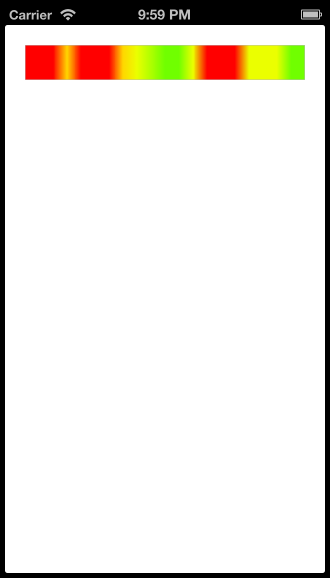
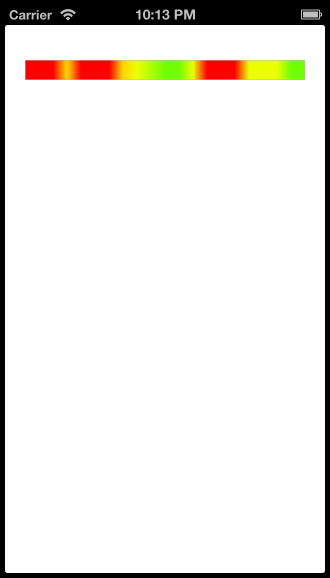
Update readme and demo image

Changed region(s): [[0.0606, 0.0623, 0.9394, 0.1246], [0.4242, 0.0, 0.6061, 0.0311]]

diff --git a/README.md b/README.md
@@ -1,3 +1,3 @@
-A simple UIView subclass that takes an array of values 0-100 and displays a horizontal linear gradient displaying those values. Useful for mapping inaccurate values over time.
+A simple UIView subclass that takes an array of values 0-100 and displays a horizontal linear gradient displaying those values. Useful for mapping values over time in a small space. It's less accurate than a [Sparkline](http://en.wikipedia.org/wiki/Sparkline), but is more obvious when mapping absolute values (e.g. a student's score in a class over the semester -- A is Green, F is Red).
 
-![Demo Image](https://raw.github.com/SamWarmuth/SWHeatLine/master/demo.png)
+![Demo Image](https://raw.github.com/SamWarmuth/SWHeatLine/master/Demo.png)
